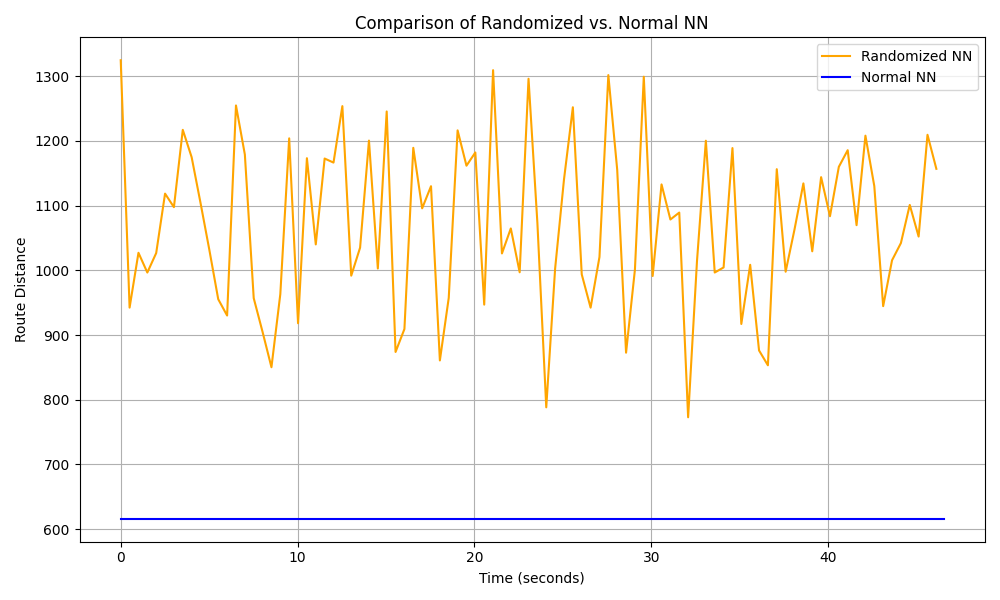
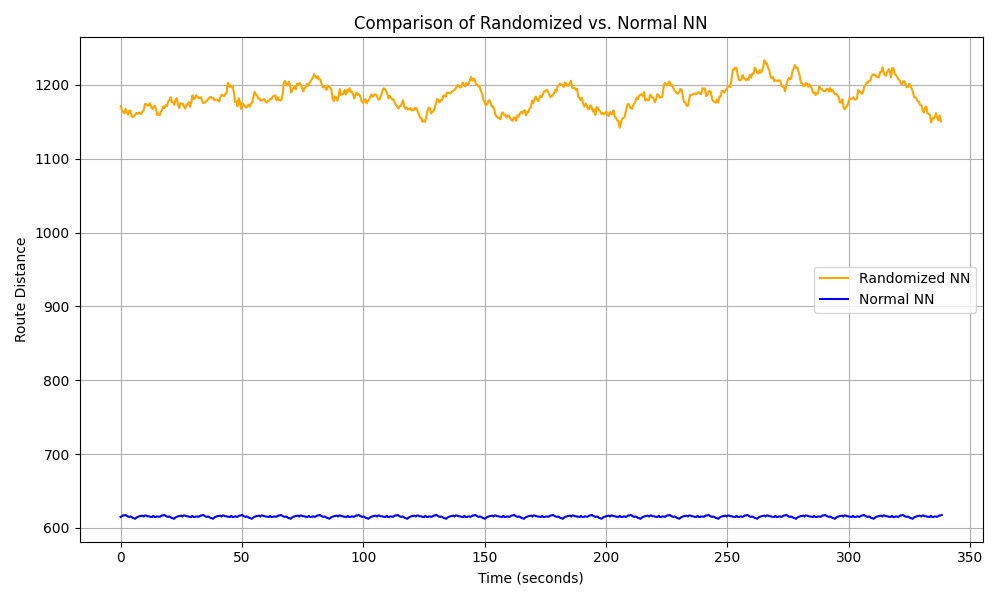
Implemented smoothing to the graphs.

diff --git a/GeneticAlgorithm.py b/GeneticAlgorithm.py
@@ -82,6 +82,9 @@ def nearestNeigborOrderRand(points=None,distanceMatrix=None):
         w = 1.0/ (actualDistance + 1.e-12)
         # Setting the visited infinity nodes weights to 0
         w[np.isinf(w)] = 0.0
+        # Softening the weights to increase the exploration of the algorithm to reduce crossovers
+        # Keep it between (0.6 for more exploration 0.8 for more greediness)
+        w = w ** 0.7
         # Calculating the total weight
         totalWeight = w.sum()
 
@@ -101,32 +104,45 @@ def nearestNeigborOrderRand(points=None,distanceMatrix=None):
     return order
 
 def nearestNeigborOrder(points=None, distanceMatrix=None):
-    # Check that exactly one input is provided
+    
+    # Checking if one input is atleast given which is points or the distanceMatrix 
     if (points is None) == (distanceMatrix is None):
         raise ValueError("Provide exactly one of points= or distanceMatrix=.")
     
-    # Compute distance matrix if points are given
+    # Computes the distance between points if we dont have one
     if distanceMatrix is None:
         distanceMatrix = buildDistanceMatrix(points)
     else:
         distanceMatrix = np.asarray(distanceMatrix, dtype=float)
 
-    # Get total number of nodes
+    # Getting the total number of points we have from the file
     totalRows = distanceMatrix.shape[0]
+    # Initalizing arrays to track the order of points and visited nodes
     order = np.empty(totalRows, dtype=int)
     visited = np.zeros(totalRows, dtype=bool)
 
-    cur = 0
+    # Setting a variable that allows the algorithm to find the next start index for the node that we 
+    # computed or if not it defaults back to the start node if nothing was made
+    start_offset = getattr(nearestNeigborOrder, "_start_offset", 0)
+    cur = int(start_offset) % totalRows
     order[0] = cur
     visited[cur] = True
 
-    # Iteratively choose nearest unvisited neighbor
+    # Iterating over all the nodes
     for i in range(1, totalRows):
-        drow = np.where(visited, np.inf, distanceMatrix[cur])  # ignore visited
-        nxt = int(np.argmin(drow))  # pick closest unvisited city
+        # Finding the distance from current point to rest of the point and if 
+        # visited then we set it to infinity to ignore it
+        drow = np.where(visited, np.inf, distanceMatrix[cur])
+
+        # Pick the closest unvisited node
+        nxt = int(np.argmin(drow))
+
         order[i] = nxt
         visited[nxt] = True
         cur = nxt
+
+    # To find the new offset and use it as the new starting node.
+    nearestNeigborOrder._start_offset = (start_offset + 1) % totalRows
 
     return order
 

diff --git a/graph.py b/graph.py
@@ -6,6 +6,12 @@ called "GraphDiff" or whatever you want to call it. Then we return back to main 
 
 import os
 import matplotlib.pyplot as plt
+import numpy as np
+
+def smooth(y, window_size=10):  #return a smoothed version of y using a moving average
+    if len(y) < window_size:
+        return y
+    return np.convolve(y, np.ones(window_size)/window_size, mode='valid')
 
 def createGraph(distanceNNRand,distanceNN,total_time,total_iterations,filename):
     output_folder = "GraphDiff"
@@ -20,9 +26,19 @@ def createGraph(distanceNNRand,distanceNN,total_time,total_iterations,filename):
     normal_iters = [d[1] for d in distanceNN]
     normal_times = [d[2] for d in distanceNN]
 
+    window_size = 40
+    rand_distances_smooth = smooth(rand_distances, window_size)
+    rand_times_smooth = rand_times[:len(rand_distances_smooth)]
+
+    normal_distances_smooth = smooth(normal_distances, window_size)
+    normal_times_smooth = normal_times[:len(normal_distances_smooth)]
+
+
+
+
     plt.figure(figsize = (10,6))
-    plt.plot(rand_times,rand_distances,label = "Randomized NN", color ="orange")
-    plt.plot(normal_times,normal_distances,label = "Normal NN", color ="blue")
+    plt.plot(rand_times_smooth,rand_distances_smooth,label = "Randomized NN", color ="orange")
+    plt.plot(normal_times_smooth,normal_distances_smooth,label = "Normal NN", color ="blue")
 
     plt.xlabel("Time (seconds)")
     plt.ylabel("Route Distance")

diff --git a/main.py b/main.py
@@ -28,6 +28,7 @@ def main():
 
     points = np.loadtxt(file_path)
 
+
     print("\nRunning optimization using solveTSPNN...(Press ENTER to stop)\n")
 
     best_distance = float('inf')
